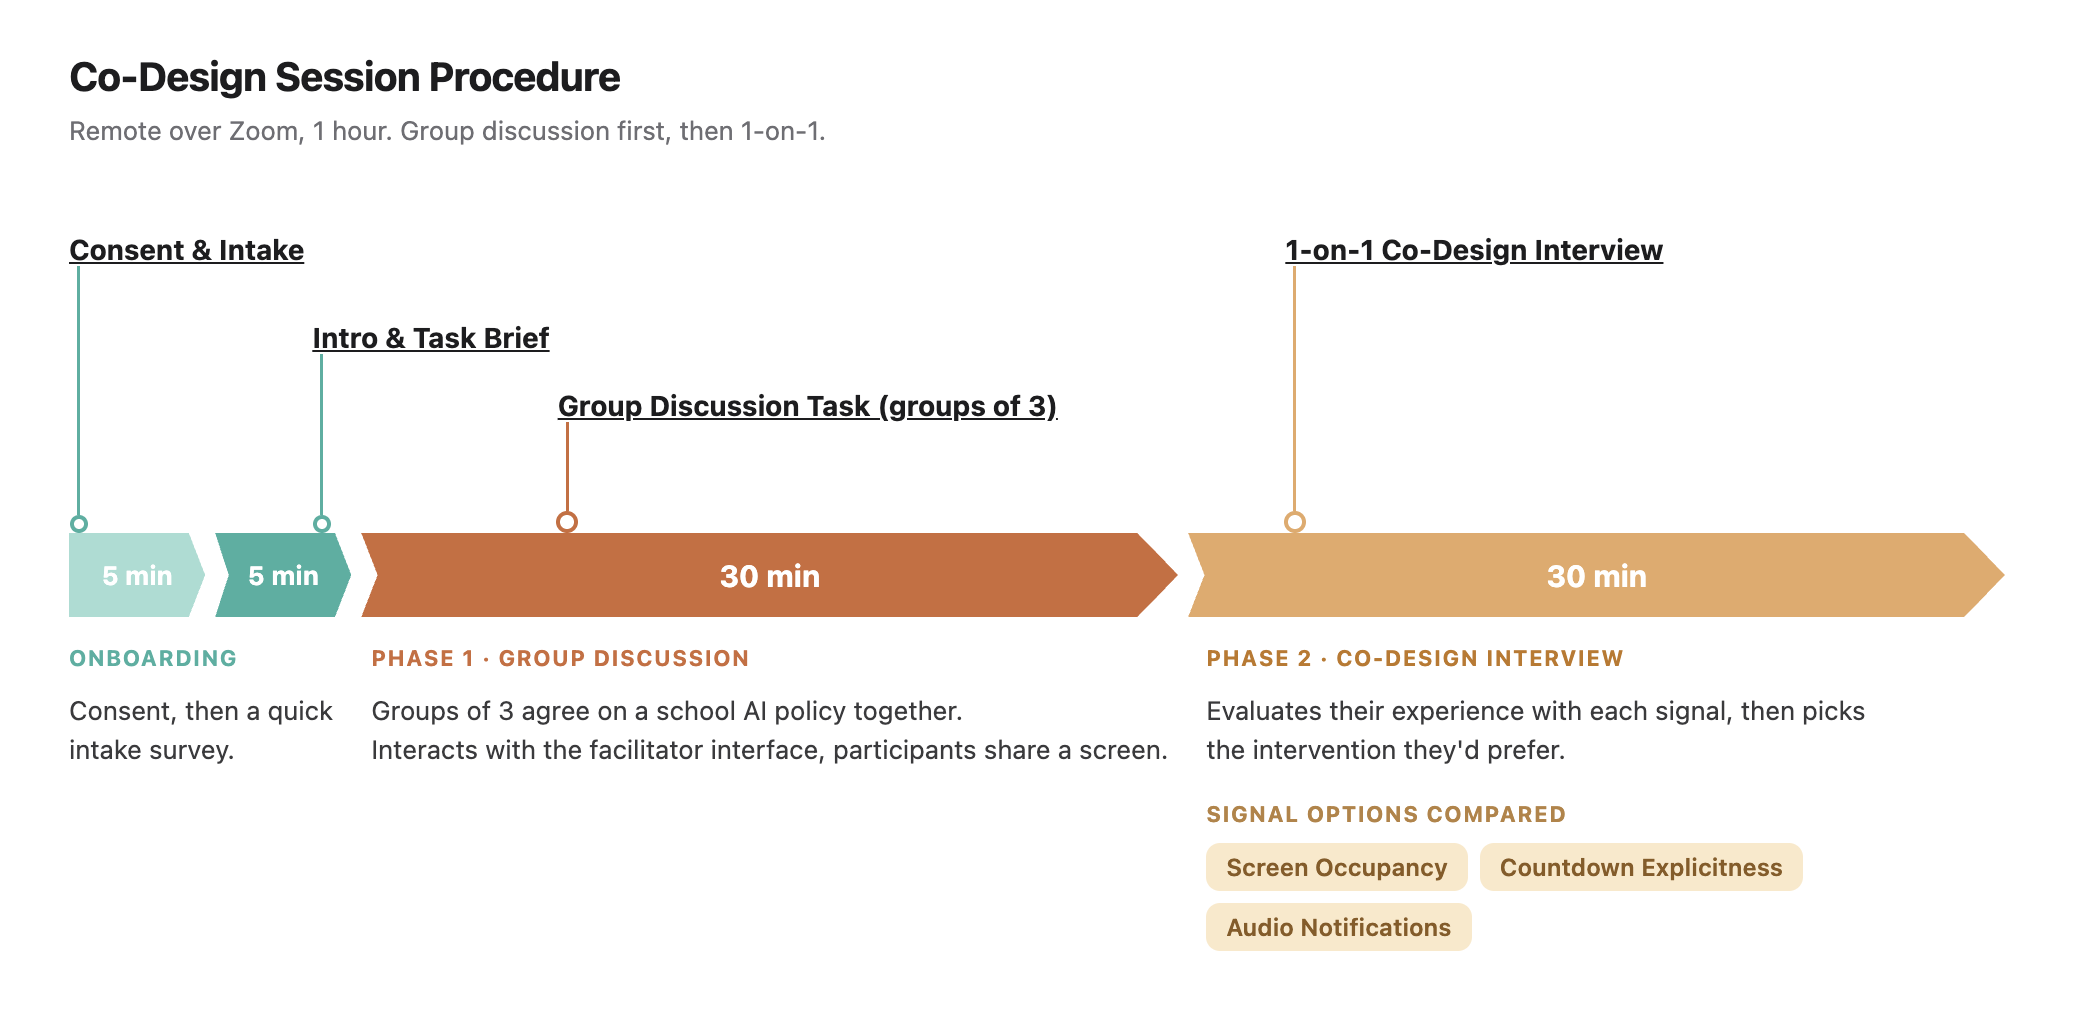
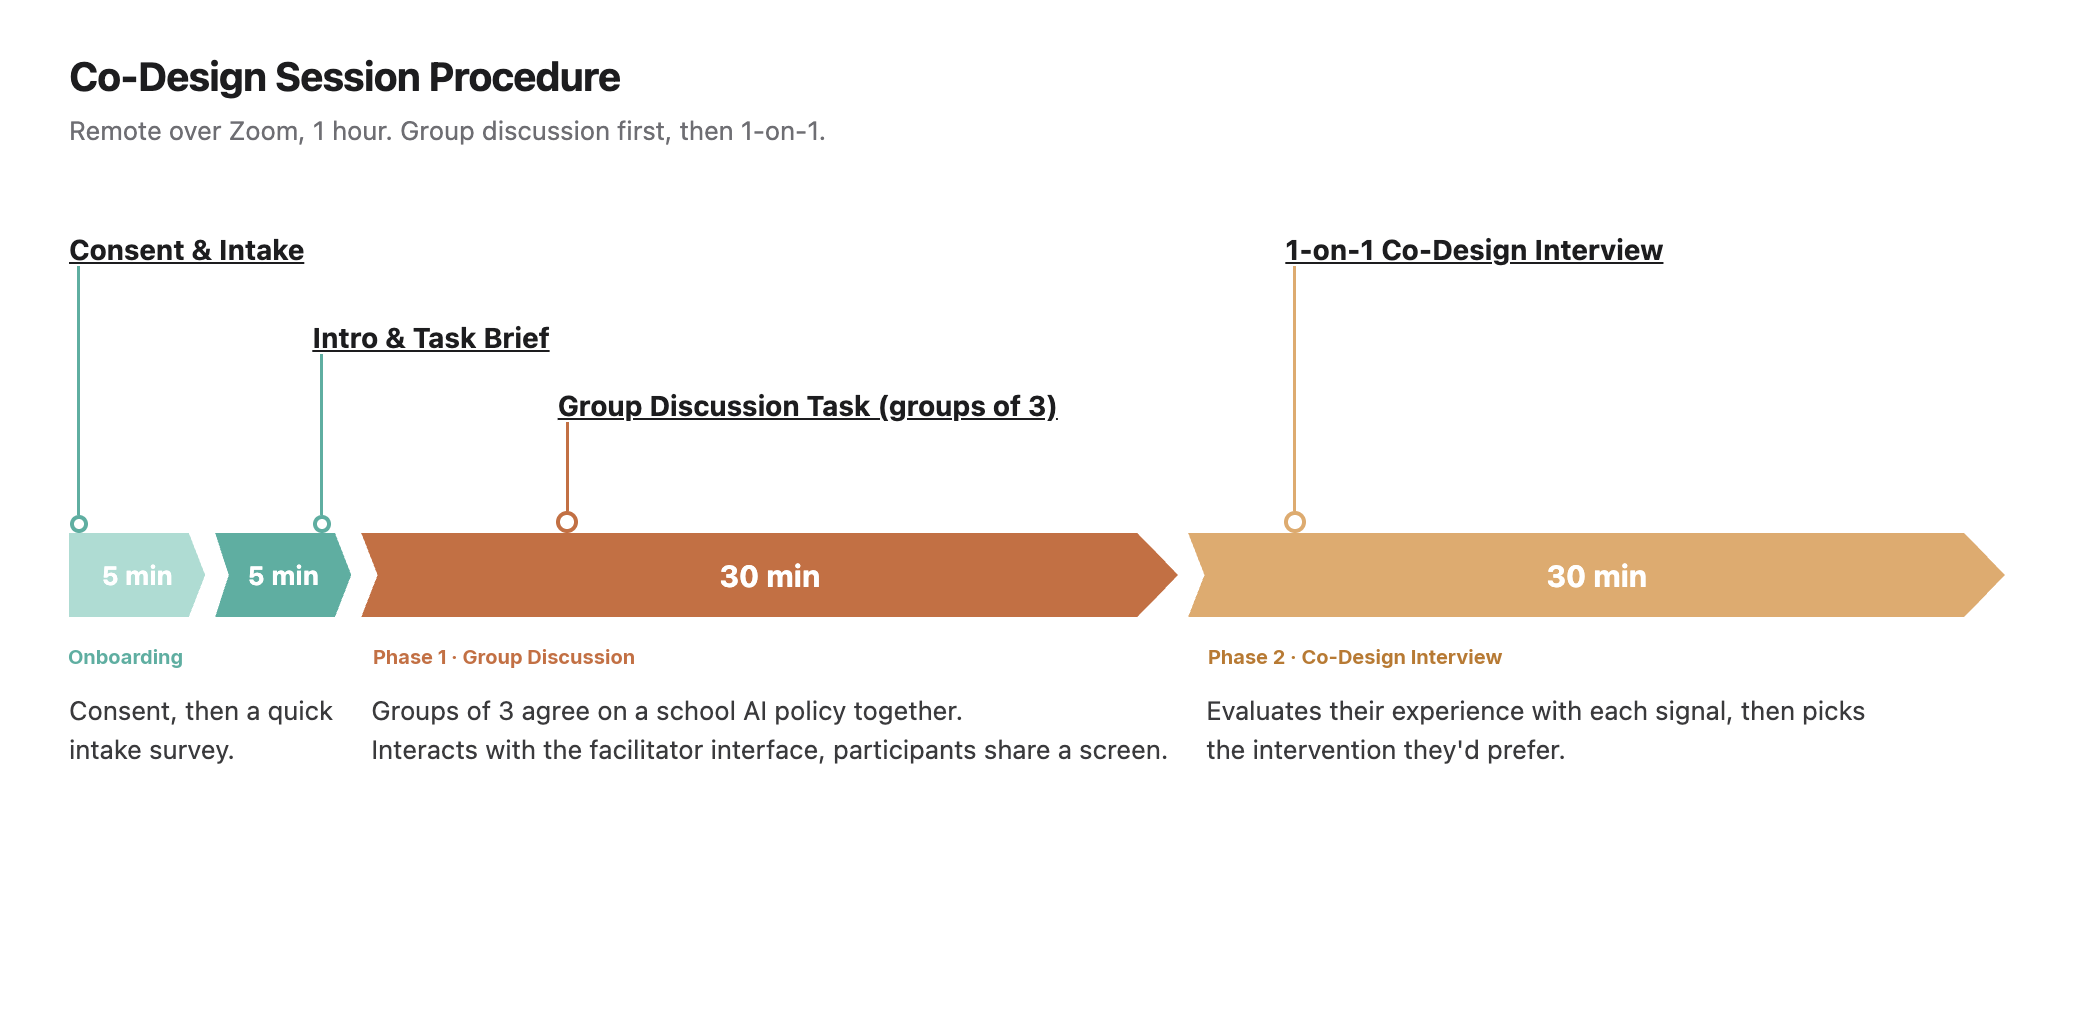
Update CueTurn design space copy (#649)
* Update CueTurn design space copy

* Remove signal options from CueTurn visual

* Use regular case for CueTurn phase labels

---------

diff --git a/case-studies/cueturn/index.html b/case-studies/cueturn/index.html
@@ -244,8 +244,7 @@
           How can we turn a broad design space into differences people can actually perceive?
         </p>
         <p class="case-body case-body--tertiary">
-          CueTurn began with an extensive design space, but formative sessions showed that some variations were too subtle,
-          overlapping, or complex to compare clearly. We narrowed the space around how users experience the AI’s
+          CueTurn began with an extensive design space, we narrowed the space around how users experience the AI’s
           presence: how prominent, explicit, and intrusive each intervention feels. Countdown exploration shifted from
           visual form, such as <strong class="case-emphasis">ring vs. bar</strong>, to
           <strong class="case-emphasis">explicitness</strong>: visible numbers versus a less explicit timer.
